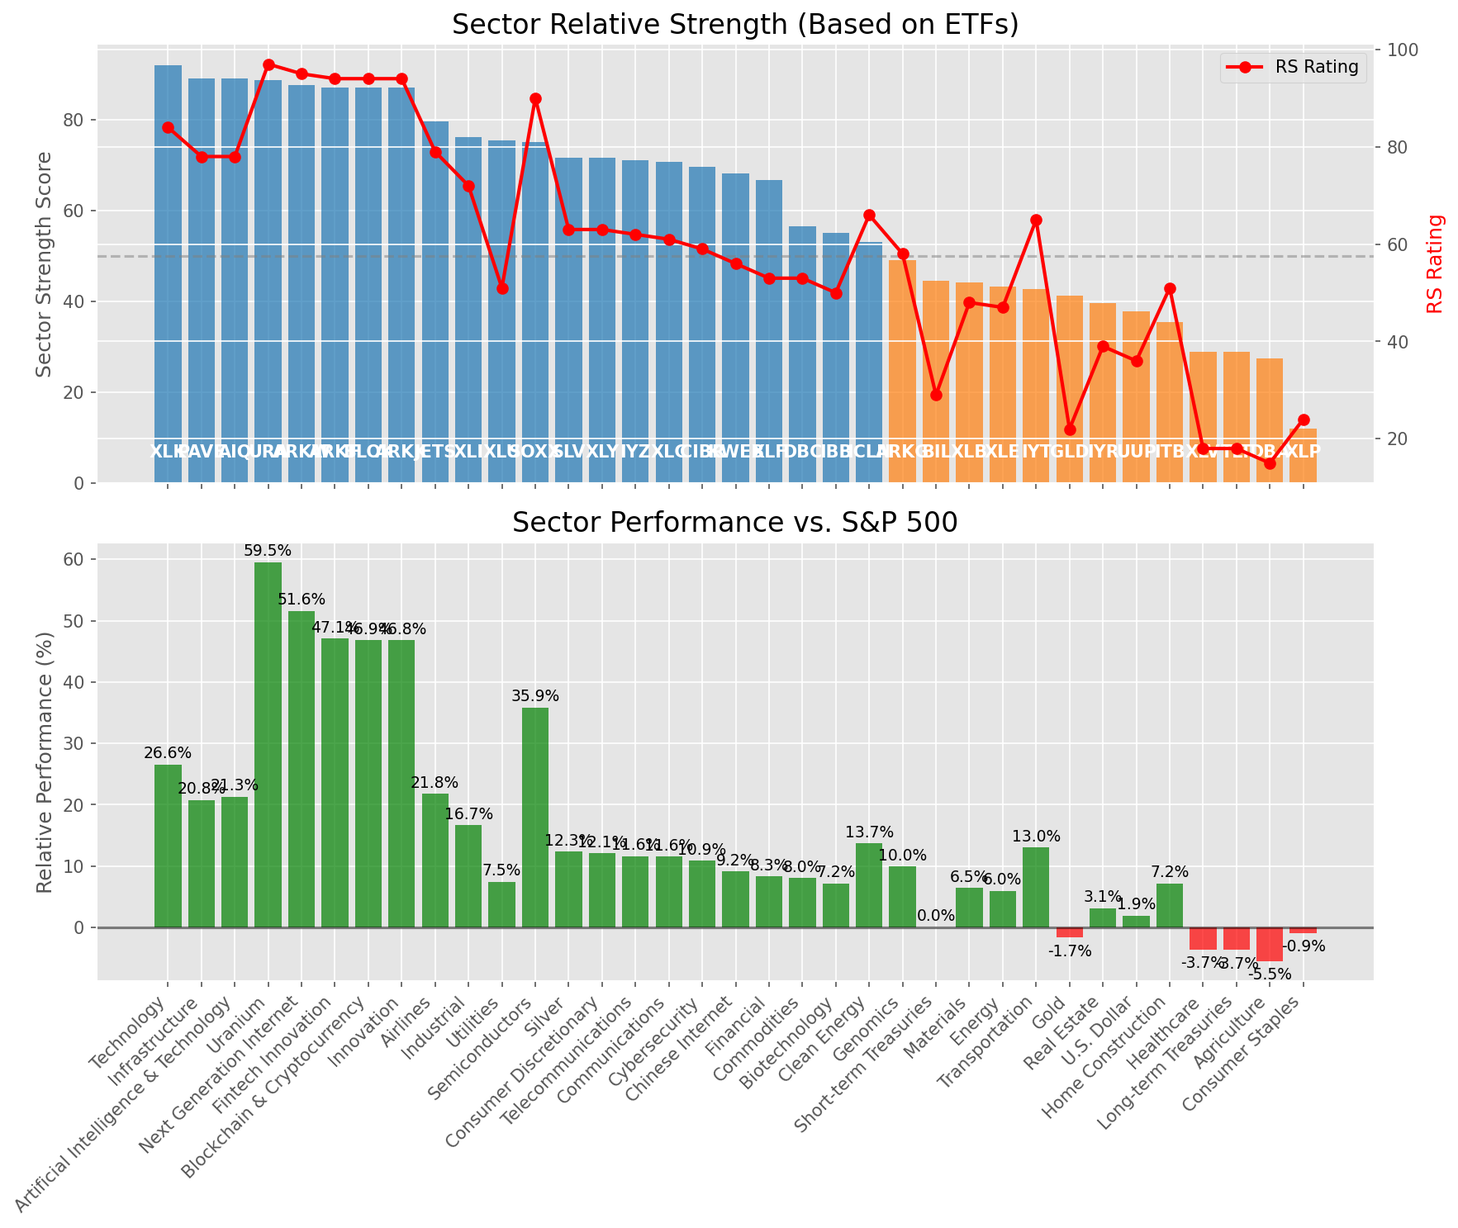
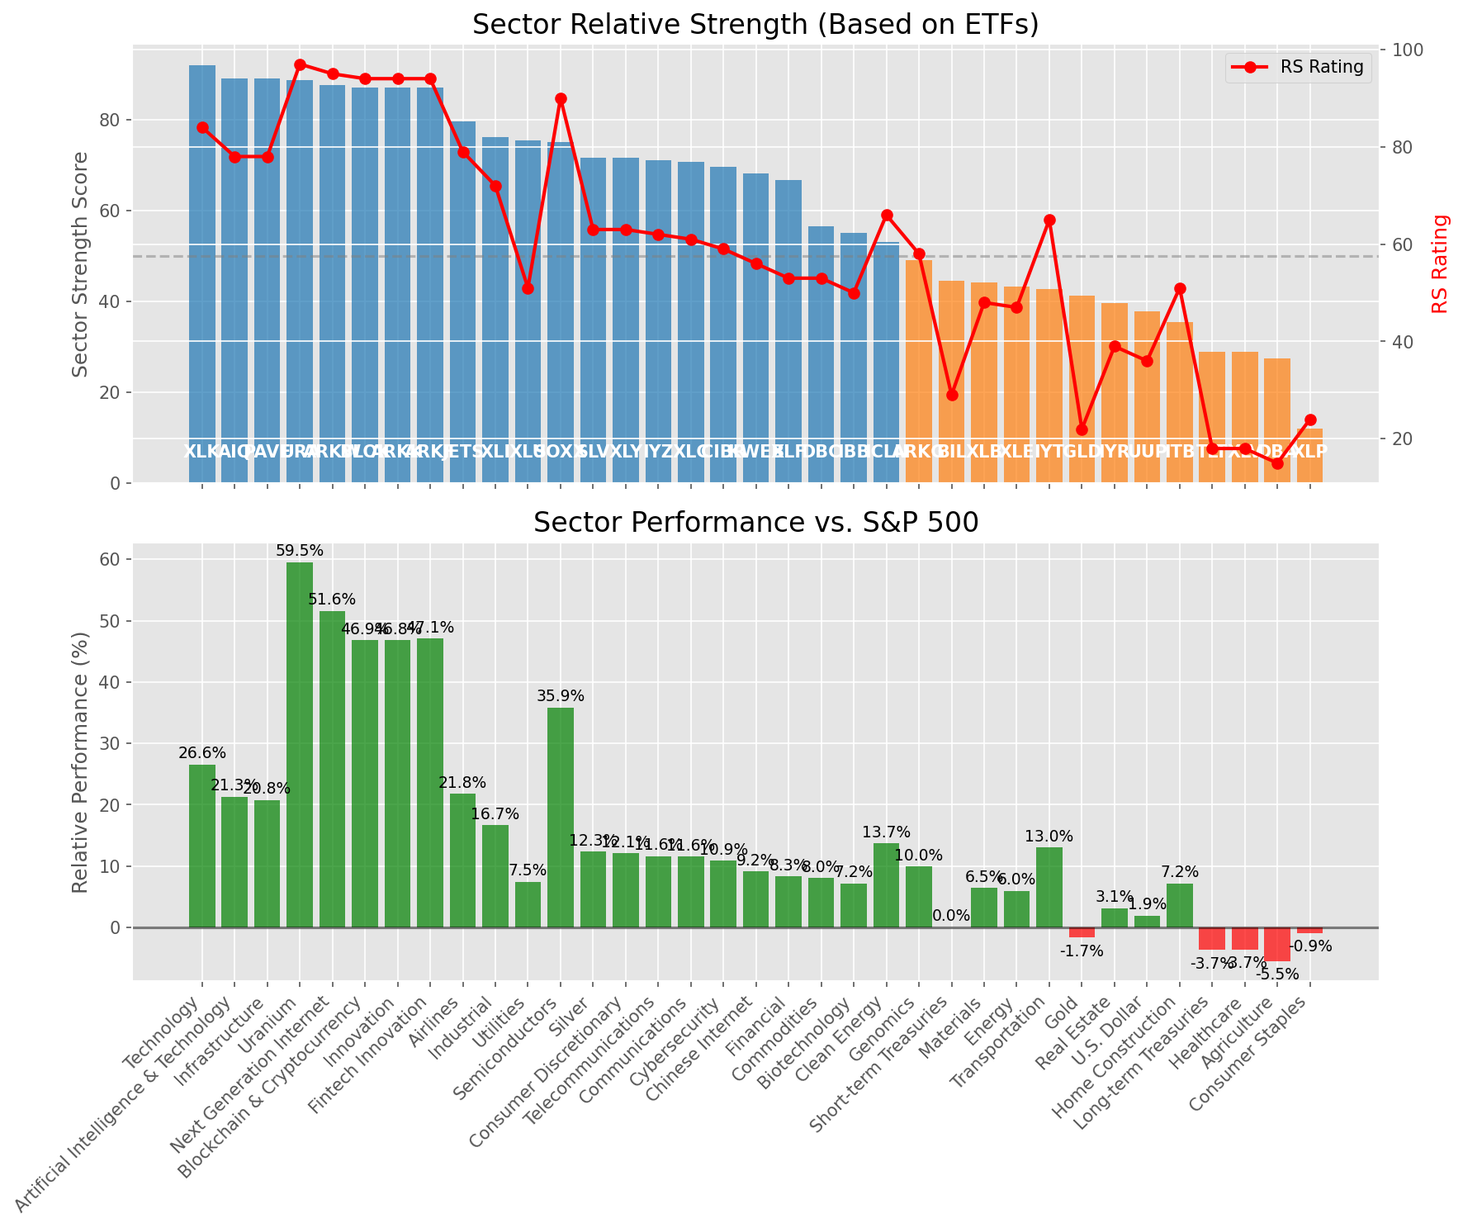
Add market report for 2025-07-30

diff --git a/oneil_relative_strength_report_2025-07-30.md b/oneil_relative_strength_report_2025-07-30.md
@@ -50,13 +50,13 @@ Based on William O'Neil's Relative Strength Methodology
 | ETF | Strength | RS Rating | Performance | Above Key MAs | Trend | Sector |
 |-----|----------|-----------|-------------|--------------|-------|--------|
 | [XLK](https://www.tradingview.com/chart/?symbol=XLK) | 92.0 | 84.0 | 26.58% | 10d ✓, 50d ✓, 200d ✓ | ↗ | Technology |
-| [PAVE](https://www.tradingview.com/chart/?symbol=PAVE) | 89.0 | 78.0 | 20.79% | 10d ✓, 50d ✓, 200d ✓ | ↗ | Infrastructure |
 | [AIQ](https://www.tradingview.com/chart/?symbol=AIQ) | 89.0 | 78.0 | 21.30% | 10d ✓, 50d ✓, 200d ✓ | ↗ | Artificial Intelligence & Technology |
+| [PAVE](https://www.tradingview.com/chart/?symbol=PAVE) | 89.0 | 78.0 | 20.79% | 10d ✓, 50d ✓, 200d ✓ | ↗ | Infrastructure |
 | [URA](https://www.tradingview.com/chart/?symbol=URA) | 88.6 | 97.0 | 59.53% | 10d ✗, 50d ✓, 200d ✓ | ↗ | Uranium |
 | [ARKW](https://www.tradingview.com/chart/?symbol=ARKW) | 87.6 | 95.0 | 51.59% | 10d ✗, 50d ✓, 200d ✓ | ↗ | Next Generation Internet |
-| [ARKF](https://www.tradingview.com/chart/?symbol=ARKF) | 87.1 | 94.0 | 47.09% | 10d ✗, 50d ✓, 200d ✓ | ↗ | Fintech Innovation |
 | [BLOK](https://www.tradingview.com/chart/?symbol=BLOK) | 87.1 | 94.0 | 46.86% | 10d ✗, 50d ✓, 200d ✓ | ↗ | Blockchain & Cryptocurrency |
 | [ARKK](https://www.tradingview.com/chart/?symbol=ARKK) | 87.1 | 94.0 | 46.81% | 10d ✗, 50d ✓, 200d ✓ | ↗ | Innovation |
+| [ARKF](https://www.tradingview.com/chart/?symbol=ARKF) | 87.1 | 94.0 | 47.09% | 10d ✗, 50d ✓, 200d ✓ | ↗ | Fintech Innovation |
 | [JETS](https://www.tradingview.com/chart/?symbol=JETS) | 79.6 | 79.0 | 21.77% | 10d ✗, 50d ✓, 200d ✓ | ↗ | Airlines |
 | [XLI](https://www.tradingview.com/chart/?symbol=XLI) | 76.1 | 72.0 | 16.67% | 10d ✗, 50d ✓, 200d ✓ | ↗ | Industrial |
 | [XLU](https://www.tradingview.com/chart/?symbol=XLU) | 75.5 | 51.0 | 7.45% | 10d ✓, 50d ✓, 200d ✓ | ↗ | Utilities |
@@ -80,8 +80,8 @@ Based on William O'Neil's Relative Strength Methodology
 | [IYR](https://www.tradingview.com/chart/?symbol=IYR) | 39.6 | 39.0 | 3.15% | 10d ✗, 50d ✓, 200d ✓ | ↘ | Real Estate |
 | [UUP](https://www.tradingview.com/chart/?symbol=UUP) | 37.8 | 36.0 | 1.94% | 10d ✓, 50d ✓, 200d ✗ | ↘ | U.S. Dollar |
 | [ITB](https://www.tradingview.com/chart/?symbol=ITB) | 35.4 | 51.0 | 7.18% | 10d ✗, 50d ✓, 200d ✗ | ↘ | Home Construction |
-| [XLV](https://www.tradingview.com/chart/?symbol=XLV) | 28.8 | 18.0 | -3.65% | 10d ✓, 50d ✓, 200d ✗ | ↘ | Healthcare |
 | [TLT](https://www.tradingview.com/chart/?symbol=TLT) | 28.8 | 18.0 | -3.69% | 10d ✓, 50d ✓, 200d ✗ | ↘ | Long-term Treasuries |
+| [XLV](https://www.tradingview.com/chart/?symbol=XLV) | 28.8 | 18.0 | -3.65% | 10d ✓, 50d ✓, 200d ✗ | ↘ | Healthcare |
 | [DBA](https://www.tradingview.com/chart/?symbol=DBA) | 27.5 | 15.0 | -5.53% | 10d ✗, 50d ✗, 200d ✗ | ↗ | Agriculture |
 | [XLP](https://www.tradingview.com/chart/?symbol=XLP) | 12.0 | 24.0 | -0.95% | 10d ✗, 50d ✗, 200d ✗ | ↘ | Consumer Staples |
 
@@ -98,7 +98,7 @@ This table shows the relative strength metrics for different market sectors base
 
 ### **Current Sector Leadership**
 
-The current market leadership is coming from the following sectors: **Technology, Infrastructure, Artificial Intelligence & Technology**.
+The current market leadership is coming from the following sectors: **Technology, Artificial Intelligence & Technology, Infrastructure**.
 
 The **Technology** sector (represented by **XLK**) is showing particularly strong relative strength with an RS rating of 84.0 and performance of 26.58% vs. the S&P 500. This sector is trading above its 10-day, 50-day, 200-day moving average(s). Investors should consider focusing on high RS stocks within these leading sectors for potential outperformance.
 
@@ -106,44 +106,44 @@ The **Technology** sector (represented by **XLK**) is showing particularly stron
 
 ## **Buy Recommendations**
 
-The following 56 stocks show exceptional relative strength:
+The following 57 stocks show exceptional relative strength:
 
 | RS Rating | Buy Score | Current Price | Chart | Name | Ticker |
 |-----------|-----------|---------------|-------|------|--------|
 | 100 | 100 | $202.41 | [Chart](https://www.tradingview.com/chart/?symbol=CLS) | Celestica, Inc. | CLS |
-| 100 | 100 | $150.93 | [Chart](https://www.tradingview.com/chart/?symbol=SEZL) | Sezzle Inc. Common Stock | SEZL |
 | 100 | 100 | $48.73 | [Chart](https://www.tradingview.com/chart/?symbol=TTMI) | TTM Technologies Inc | TTMI |
-| 100 | 100 | $106.10 | [Chart](https://www.tradingview.com/chart/?symbol=HOOD) | Robinhood Markets, Inc. Class A Common Stock | HOOD |
+| 100 | 100 | $150.93 | [Chart](https://www.tradingview.com/chart/?symbol=SEZL) | Sezzle Inc. Common Stock | SEZL |
 | 100 | 100 | $240.20 | [Chart](https://www.tradingview.com/chart/?symbol=DAVE) | Dave Inc. Class A Common Stock | DAVE |
+| 100 | 100 | $106.10 | [Chart](https://www.tradingview.com/chart/?symbol=HOOD) | Robinhood Markets, Inc. Class A Common Stock | HOOD |
 | 99 | 100 | $76.40 | [Chart](https://www.tradingview.com/chart/?symbol=LIF) | Life360, Inc. Common Stock | LIF |
-| 99 | 100 | $65.53 | [Chart](https://www.tradingview.com/chart/?symbol=HIMS) | Hims & Hers Health, Inc. | HIMS |
 | 99 | 100 | $124.94 | [Chart](https://www.tradingview.com/chart/?symbol=RBLX) | Roblox Corporation | RBLX |
+| 99 | 100 | $65.53 | [Chart](https://www.tradingview.com/chart/?symbol=HIMS) | Hims & Hers Health, Inc. | HIMS |
 | 98 | 100 | $24.36 | [Chart](https://www.tradingview.com/chart/?symbol=CPS) | Cooper-Standard Automotive Inc. | CPS |
 | 98 | 100 | $373.36 | [Chart](https://www.tradingview.com/chart/?symbol=TLN) | Talen Energy Corporation Common Stock | TLN |
 | 98 | 100 | $655.00 | [Chart](https://www.tradingview.com/chart/?symbol=GEV) | GE Vernova Inc. | GEV |
+| 97 | 100 | $240.50 | [Chart](https://www.tradingview.com/chart/?symbol=AGX) | Argan, Inc | AGX |
 | 97 | 100 | $200.85 | [Chart](https://www.tradingview.com/chart/?symbol=NET) | Cloudflare, Inc. Class A common stock, par value $0.001 per share | NET |
 | 97 | 100 | $36.18 | [Chart](https://www.tradingview.com/chart/?symbol=ATRO) | Astronics Corp | ATRO |
 | 97 | 100 | $38.85 | [Chart](https://www.tradingview.com/chart/?symbol=AS) | Amer Sports, Inc. | AS |
 | 96 | 100 | $49.18 | [Chart](https://www.tradingview.com/chart/?symbol=REVG) | REV Group, Inc. | REVG |
-| 96 | 100 | $240.50 | [Chart](https://www.tradingview.com/chart/?symbol=AGX) | Argan, Inc | AGX |
-| 96 | 100 | $226.42 | [Chart](https://www.tradingview.com/chart/?symbol=JBL) | Jabil Inc. | JBL |
 | 96 | 100 | $66.22 | [Chart](https://www.tradingview.com/chart/?symbol=IBKR) | Interactive Brokers Group, Inc. Class A Common Stock | IBKR |
-| 95 | 100 | $137.88 | [Chart](https://www.tradingview.com/chart/?symbol=LMB) | Limbach Holdings, Inc Common Stock | LMB |
+| 96 | 100 | $226.42 | [Chart](https://www.tradingview.com/chart/?symbol=JBL) | Jabil Inc. | JBL |
 | 95 | 100 | $166.59 | [Chart](https://www.tradingview.com/chart/?symbol=NRG) | NRG Energy, Inc. | NRG |
+| 95 | 100 | $137.88 | [Chart](https://www.tradingview.com/chart/?symbol=LMB) | Limbach Holdings, Inc Common Stock | LMB |
 | 94 | 100 | $266.10 | [Chart](https://www.tradingview.com/chart/?symbol=WWD) | Woodward, Inc. | WWD |
 | 94 | 100 | $115.90 | [Chart](https://www.tradingview.com/chart/?symbol=SANM) | Sanmina  Corp | SANM |
 | 93 | 100 | $283.63 | [Chart](https://www.tradingview.com/chart/?symbol=CRS) | Carpenter Technology Corp | CRS |
-| 93 | 100 | $105.14 | [Chart](https://www.tradingview.com/chart/?symbol=VRNA) | Verona Pharma plc | VRNA |
 | 93 | 100 | $22.42 | [Chart](https://www.tradingview.com/chart/?symbol=MIR) | Mirion Technologies, Inc. | MIR |
 | 93 | 100 | $59.03 | [Chart](https://www.tradingview.com/chart/?symbol=VIK) | Viking Holdings Ltd | VIK |
+| 93 | 100 | $105.14 | [Chart](https://www.tradingview.com/chart/?symbol=VRNA) | Verona Pharma plc | VRNA |
 | 93 | 100 | $19.11 | [Chart](https://www.tradingview.com/chart/?symbol=LQDA) | Liquidia Corporation Common Stock | LQDA |
-| 92 | 100 | $95.81 | [Chart](https://www.tradingview.com/chart/?symbol=C) | Citigroup Inc. | C |
 | 92 | 100 | $192.14 | [Chart](https://www.tradingview.com/chart/?symbol=HWM) | Howmet Aerospace Inc. | HWM |
-| 91 | 100 | $105.49 | [Chart](https://www.tradingview.com/chart/?symbol=APH) | Amphenol Corporation | APH |
+| 92 | 100 | $95.81 | [Chart](https://www.tradingview.com/chart/?symbol=C) | Citigroup Inc. | C |
 | 91 | 100 | $158.61 | [Chart](https://www.tradingview.com/chart/?symbol=PLTR) | Palantir Technologies Inc. Class A Common Stock | PLTR |
-| 90 | 100 | $273.55 | [Chart](https://www.tradingview.com/chart/?symbol=GE) | GE Aerospace | GE |
+| 91 | 100 | $105.49 | [Chart](https://www.tradingview.com/chart/?symbol=APH) | Amphenol Corporation | APH |
 | 90 | 100 | $95.42 | [Chart](https://www.tradingview.com/chart/?symbol=RBRK) | Rubrik, Inc. | RBRK |
 | 90 | 100 | $82.56 | [Chart](https://www.tradingview.com/chart/?symbol=TPB) | Turning Point Brands, Inc. | TPB |
+| 90 | 100 | $273.55 | [Chart](https://www.tradingview.com/chart/?symbol=GE) | GE Aerospace | GE |
 | 89 | 100 | $48.61 | [Chart](https://www.tradingview.com/chart/?symbol=TOST) | Toast, Inc. | TOST |
 | 89 | 100 | $66.47 | [Chart](https://www.tradingview.com/chart/?symbol=CAKE) | Cheesecake Factory (The) | CAKE |
 | 88 | 100 | $41.89 | [Chart](https://www.tradingview.com/chart/?symbol=LTM) | LATAM Airlines Group S.A. American Depositary Shares (each representing two thousand (2,000) shares of Common Stock) | LTM |
@@ -154,15 +154,16 @@ The following 56 stocks show exceptional relative strength:
 | 86 | 97 | $73.17 | [Chart](https://www.tradingview.com/chart/?symbol=ULS) | UL Solutions Inc. | ULS |
 | 85 | 97 | $102.30 | [Chart](https://www.tradingview.com/chart/?symbol=BK) | Bank of New York Mellon Corporation | BK |
 | 86 | 96 | $48.49 | [Chart](https://www.tradingview.com/chart/?symbol=INOD) | Innodata Inc. | INOD |
+| 85 | 96 | $198.64 | [Chart](https://www.tradingview.com/chart/?symbol=ITA) | iShares U.S. Aerospace & Defense ETF | ITA |
 | 83 | 96 | $66.92 | [Chart](https://www.tradingview.com/chart/?symbol=CHEF) | The Chef's Warehouse Inc | CHEF |
-| 84 | 95 | $198.64 | [Chart](https://www.tradingview.com/chart/?symbol=ITA) | iShares U.S. Aerospace & Defense ETF | ITA |
 | 81 | 95 | $19.86 | [Chart](https://www.tradingview.com/chart/?symbol=BCS) | Barclays PLC | BCS |
 | 84 | 94 | $260.91 | [Chart](https://www.tradingview.com/chart/?symbol=WTS) | Watts Water Technologies, Inc. Class A | WTS |
 | 84 | 94 | $95.99 | [Chart](https://www.tradingview.com/chart/?symbol=NDAQ) | Nasdaq, Inc. Common Stock | NDAQ |
 | 82 | 94 | $399.00 | [Chart](https://www.tradingview.com/chart/?symbol=LPLA) | LPL Financial Holdings Inc. | LPLA |
 | 81 | 94 | $33.26 | [Chart](https://www.tradingview.com/chart/?symbol=DB) | Deutsche Bank Aktiengesellschaft | DB |
-| 81 | 93 | $53.16 | [Chart](https://www.tradingview.com/chart/?symbol=BTI) | British American Tobacco p.l.c. American Depositary Shares, American Depositary Shares, each representing one Ordinary Share | BTI |
+| 83 | 93 | $86.73 | [Chart](https://www.tradingview.com/chart/?symbol=BYD) | Boyd Gaming Corporation | BYD |
 | 81 | 93 | $141.48 | [Chart](https://www.tradingview.com/chart/?symbol=VSEC) | VSE Corp | VSEC |
+| 81 | 93 | $53.16 | [Chart](https://www.tradingview.com/chart/?symbol=BTI) | British American Tobacco p.l.c. American Depositary Shares, American Depositary Shares, each representing one Ordinary Share | BTI |
 | 81 | 93 | $435.19 | [Chart](https://www.tradingview.com/chart/?symbol=CYBR) | CyberArk Software Ltd. | CYBR |
 | 81 | 92 | $286.90 | [Chart](https://www.tradingview.com/chart/?symbol=VEEV) | Veeva Systems Inc. | VEEV |
 | 80 | 90 | $49.70 | [Chart](https://www.tradingview.com/chart/?symbol=FHI) | Federated Hermes, Inc. | FHI |
@@ -172,31 +173,33 @@ The following 56 stocks show exceptional relative strength:
 
 ## **Sell Recommendations**
 
-The following 83 stocks show deteriorating relative strength:
+The following 89 stocks show deteriorating relative strength:
 
 | RS Rating | Sell Score | Current Price | Chart | Name | Ticker |
 |-----------|------------|---------------|-------|------|--------|
 | 1 | 100 | $23.62 | [Chart](https://www.tradingview.com/chart/?symbol=TECS) | Direxion Daily Technology Bear 3x Shares | TECS |
 | 1 | 100 | $11.90 | [Chart](https://www.tradingview.com/chart/?symbol=NVDS) | Investment Managers Series Trust II Tradr 1.5X Short NVDA Daily ETF | NVDS |
 | 1 | 100 | $17.83 | [Chart](https://www.tradingview.com/chart/?symbol=GPCR) | Structure Therapeutics Inc. American Depositary Shares | GPCR |
-| 2 | 100 | $12.86 | [Chart](https://www.tradingview.com/chart/?symbol=CDNA) | CareDx, Inc. | CDNA |
-| 2 | 100 | $14.25 | [Chart](https://www.tradingview.com/chart/?symbol=CLBT) | Cellebrite DI Ltd. Class A Ordinary Shares | CLBT |
 | 2 | 100 | $53.45 | [Chart](https://www.tradingview.com/chart/?symbol=GMED) | GLOBUS MEDICAL INC | GMED |
+| 2 | 100 | $14.25 | [Chart](https://www.tradingview.com/chart/?symbol=CLBT) | Cellebrite DI Ltd. Class A Ordinary Shares | CLBT |
 | 2 | 100 | $61.54 | [Chart](https://www.tradingview.com/chart/?symbol=SKY) | Champion Homes, Inc. | SKY |
-| 3 | 100 | $41.08 | [Chart](https://www.tradingview.com/chart/?symbol=TWM) | ProShares UltraShort Russell2000 | TWM |
-| 3 | 100 | $40.66 | [Chart](https://www.tradingview.com/chart/?symbol=SDOW) | ProShares UltraPro Short Dow 30 | SDOW |
+| 2 | 100 | $12.86 | [Chart](https://www.tradingview.com/chart/?symbol=CDNA) | CareDx, Inc. | CDNA |
 | 3 | 100 | $12.11 | [Chart](https://www.tradingview.com/chart/?symbol=PSFE) | Paysafe Limited | PSFE |
+| 3 | 100 | $40.66 | [Chart](https://www.tradingview.com/chart/?symbol=SDOW) | ProShares UltraPro Short Dow 30 | SDOW |
+| 3 | 100 | $41.08 | [Chart](https://www.tradingview.com/chart/?symbol=TWM) | ProShares UltraShort Russell2000 | TWM |
 | 3 | 100 | $46.73 | [Chart](https://www.tradingview.com/chart/?symbol=SLVM) | Sylvamo Corporation | SLVM |
-| 4 | 100 | $24.63 | [Chart](https://www.tradingview.com/chart/?symbol=ZSL) | ProShares UltraShort Silver | ZSL |
-| 4 | 100 | $24.58 | [Chart](https://www.tradingview.com/chart/?symbol=DUST) | Direxion Daily Gold Miners Index Bear 2X Shares | DUST |
+| 3 | 100 | $36.90 | [Chart](https://www.tradingview.com/chart/?symbol=IBTA) | Ibotta, Inc. | IBTA |
 | 4 | 100 | $16.44 | [Chart](https://www.tradingview.com/chart/?symbol=BTAL) | AGF U.S. Market Neutral Anti-Beta Fund | BTAL |
+| 4 | 100 | $24.58 | [Chart](https://www.tradingview.com/chart/?symbol=DUST) | Direxion Daily Gold Miners Index Bear 2X Shares | DUST |
+| 4 | 100 | $24.63 | [Chart](https://www.tradingview.com/chart/?symbol=ZSL) | ProShares UltraShort Silver | ZSL |
 | 4 | 100 | $22.40 | [Chart](https://www.tradingview.com/chart/?symbol=HELE) | Helen Of Troy Ltd | HELE |
-| 5 | 100 | $14.73 | [Chart](https://www.tradingview.com/chart/?symbol=PLSE) | Pulse Biosciences, Inc Common Stock (DE) | PLSE |
 | 5 | 100 | $10.37 | [Chart](https://www.tradingview.com/chart/?symbol=OEC) | Orion S.A. | OEC |
-| 7 | 100 | $13.73 | [Chart](https://www.tradingview.com/chart/?symbol=DXC) | DXC Technology Company | DXC |
+| 5 | 100 | $10.68 | [Chart](https://www.tradingview.com/chart/?symbol=ARDT) | Ardent Health, Inc. | ARDT |
+| 5 | 100 | $14.73 | [Chart](https://www.tradingview.com/chart/?symbol=PLSE) | Pulse Biosciences, Inc Common Stock (DE) | PLSE |
 | 7 | 100 | $38.87 | [Chart](https://www.tradingview.com/chart/?symbol=SH) | ProShares Short S&P500 | SH |
-| 7 | 100 | $10.18 | [Chart](https://www.tradingview.com/chart/?symbol=IMXI) | International Money Express, Inc. | IMXI |
 | 7 | 100 | $21.34 | [Chart](https://www.tradingview.com/chart/?symbol=AMPH) | Amphastar Pharmaceuticals, Inc. | AMPH |
+| 7 | 100 | $13.73 | [Chart](https://www.tradingview.com/chart/?symbol=DXC) | DXC Technology Company | DXC |
+| 7 | 100 | $10.18 | [Chart](https://www.tradingview.com/chart/?symbol=IMXI) | International Money Express, Inc. | IMXI |
 | 8 | 100 | $27.80 | [Chart](https://www.tradingview.com/chart/?symbol=DOCN) | DigitalOcean Holdings, Inc. | DOCN |
 | 9 | 100 | $21.41 | [Chart](https://www.tradingview.com/chart/?symbol=AMRK) | A-Mark Precious Metals, Inc. | AMRK |
 | 10 | 100 | $54.78 | [Chart](https://www.tradingview.com/chart/?symbol=HRB) | H&R Block, Inc. | HRB |
@@ -210,28 +213,29 @@ The following 83 stocks show deteriorating relative strength:
 | 8 | 96 | $21.32 | [Chart](https://www.tradingview.com/chart/?symbol=ERY) | Direxion Daily Energy Bear 2X Shares | ERY |
 | 8 | 95 | $21.82 | [Chart](https://www.tradingview.com/chart/?symbol=BLFS) | BioLife Solutions Inc. | BLFS |
 | 10 | 95 | $19.67 | [Chart](https://www.tradingview.com/chart/?symbol=GAP) | The Gap, Inc. | GAP |
+| 13 | 95 | $10.50 | [Chart](https://www.tradingview.com/chart/?symbol=SD) | SandRidge Energy, Inc. | SD |
+| 14 | 95 | $19.59 | [Chart](https://www.tradingview.com/chart/?symbol=AVBP) | ArriVent BioPharma, Inc. Common Stock | AVBP |
 | 15 | 95 | $196.31 | [Chart](https://www.tradingview.com/chart/?symbol=AVB) | AvalonBay Communities, Inc. | AVB |
 | 16 | 95 | $13.91 | [Chart](https://www.tradingview.com/chart/?symbol=OCSL) | Oaktree Specialty Lending Corporation | OCSL |
-| 14 | 94 | $10.50 | [Chart](https://www.tradingview.com/chart/?symbol=SD) | SandRidge Energy, Inc. | SD |
-| 17 | 94 | $21.47 | [Chart](https://www.tradingview.com/chart/?symbol=TUA) | Simplify Short Term Treasury Futures Strategy ETF | TUA |
+| 17 | 95 | $21.47 | [Chart](https://www.tradingview.com/chart/?symbol=TUA) | Simplify Short Term Treasury Futures Strategy ETF | TUA |
 | 20 | 94 | $16.45 | [Chart](https://www.tradingview.com/chart/?symbol=MLNK) | MeridianLink, Inc. | MLNK |
 | 11 | 92 | $73.51 | [Chart](https://www.tradingview.com/chart/?symbol=AWR) | American States Water Company | AWR |
 | 13 | 92 | $45.98 | [Chart](https://www.tradingview.com/chart/?symbol=BMY) | Bristol-Myers Squibb Co. | BMY |
 | 16 | 92 | $11.22 | [Chart](https://www.tradingview.com/chart/?symbol=PACS) | PACS Group, Inc. | PACS |
 | 18 | 92 | $10.49 | [Chart](https://www.tradingview.com/chart/?symbol=ACIC) | American Coastal Insurance Corporation Common Stock | ACIC |
 | 11 | 91 | $36.60 | [Chart](https://www.tradingview.com/chart/?symbol=LZB) | La-Z-Boy Incorporated | LZB |
-| 12 | 90 | $36.38 | [Chart](https://www.tradingview.com/chart/?symbol=MSTX) | Tidal Trust II Defiance Daily Target 2x Long MSTR ETF | MSTX |
 | 15 | 90 | $12.39 | [Chart](https://www.tradingview.com/chart/?symbol=WSR) | Whitestone REIT | WSR |
 | 15 | 90 | $210.09 | [Chart](https://www.tradingview.com/chart/?symbol=MKTX) | MarketAxess Holdings Inc. | MKTX |
 | 17 | 90 | $13.13 | [Chart](https://www.tradingview.com/chart/?symbol=CCRN) | Cross Country Healthcare Inc | CCRN |
 | 18 | 90 | $37.11 | [Chart](https://www.tradingview.com/chart/?symbol=PBA) | PEMBINA PIPELINE CORPORATION | PBA |
 | 18 | 90 | $78.06 | [Chart](https://www.tradingview.com/chart/?symbol=AKAM) | Akamai Technologies Inc | AKAM |
 | 20 | 90 | $11.51 | [Chart](https://www.tradingview.com/chart/?symbol=NVG) | Nuveen AMT-Free Municipal Credit Income Fund | NVG |
+| 12 | 89 | $36.38 | [Chart](https://www.tradingview.com/chart/?symbol=MSTX) | Tidal Trust II Defiance Daily Target 2x Long MSTR ETF | MSTX |
 | 13 | 89 | $59.01 | [Chart](https://www.tradingview.com/chart/?symbol=UL) | Unilever plc | UL |
 | 14 | 89 | $14.11 | [Chart](https://www.tradingview.com/chart/?symbol=ACVA) | ACV Auctions Inc. | ACVA |
 | 16 | 89 | $184.56 | [Chart](https://www.tradingview.com/chart/?symbol=AIZ) | Assurant, Inc. | AIZ |
-| 18 | 89 | $31.05 | [Chart](https://www.tradingview.com/chart/?symbol=MBIN) | Merchants Bancorp Common Stock | MBIN |
 | 21 | 89 | $87.61 | [Chart](https://www.tradingview.com/chart/?symbol=BCO) | The Brink's Company | BCO |
+| 18 | 88 | $31.05 | [Chart](https://www.tradingview.com/chart/?symbol=MBIN) | Merchants Bancorp Common Stock | MBIN |
 | 22 | 88 | $11.63 | [Chart](https://www.tradingview.com/chart/?symbol=NZF) | Nuveen Municipal Credit Income Fund | NZF |
 | 25 | 88 | $10.84 | [Chart](https://www.tradingview.com/chart/?symbol=MQY) | Blackrock Muni Yield Quality Fund, Inc | MQY |
 | 21 | 87 | $101.78 | [Chart](https://www.tradingview.com/chart/?symbol=PRU) | Prudential Financial, Inc. | PRU |
@@ -243,13 +247,16 @@ The following 83 stocks show deteriorating relative strength:
 | 21 | 85 | $22.43 | [Chart](https://www.tradingview.com/chart/?symbol=CURB) | Curbline Properties Corp. | CURB |
 | 24 | 84 | $10.07 | [Chart](https://www.tradingview.com/chart/?symbol=NMZ) | Nuveen Municipal High Income Opportunity Fund | NMZ |
 | 21 | 83 | $74.79 | [Chart](https://www.tradingview.com/chart/?symbol=MET) | MetLife, Inc. | MET |
-| 21 | 82 | $237.68 | [Chart](https://www.tradingview.com/chart/?symbol=WDAY) | Workday, Inc. Class A Common Stock | WDAY |
 | 21 | 82 | $45.28 | [Chart](https://www.tradingview.com/chart/?symbol=BILL) | BILL Holdings, Inc. | BILL |
+| 21 | 82 | $237.68 | [Chart](https://www.tradingview.com/chart/?symbol=WDAY) | Workday, Inc. Class A Common Stock | WDAY |
+| 23 | 81 | $24.05 | [Chart](https://www.tradingview.com/chart/?symbol=CLW) | Clearwater Paper Corporation | CLW |
 | 24 | 81 | $56.79 | [Chart](https://www.tradingview.com/chart/?symbol=O) | Realty Income Corporation | O |
 | 25 | 81 | $12.61 | [Chart](https://www.tradingview.com/chart/?symbol=PCN) | PIMCO Corporate & Income Strategy Fund | PCN |
-| 23 | 80 | $24.05 | [Chart](https://www.tradingview.com/chart/?symbol=CLW) | Clearwater Paper Corporation | CLW |
+| 28 | 80 | $14.87 | [Chart](https://www.tradingview.com/chart/?symbol=PLYM) | Plymouth Industrial REIT, Inc. | PLYM |
+| 30 | 78 | $10.27 | [Chart](https://www.tradingview.com/chart/?symbol=MYI) | BLACKROCK MUNIYIELD QUALITY FUND III, INC. | MYI |
 | 38 | 78 | $17.01 | [Chart](https://www.tradingview.com/chart/?symbol=SVOL) | Simplify Volatility Premium ETF | SVOL |
 | 32 | 76 | $54.04 | [Chart](https://www.tradingview.com/chart/?symbol=AMWD) | American Woodmark Corp | AMWD |
+| 33 | 75 | $10.63 | [Chart](https://www.tradingview.com/chart/?symbol=LOCO) | El Pollo Loco Holdings, Inc. | LOCO |
 | 33 | 74 | $10.96 | [Chart](https://www.tradingview.com/chart/?symbol=NAC) | Nuveen California Quality Municipal Income Fund | NAC |
 | 33 | 73 | $49.66 | [Chart](https://www.tradingview.com/chart/?symbol=POWI) | Power Integrations Inc | POWI |
 | 32 | 71 | $45.92 | [Chart](https://www.tradingview.com/chart/?symbol=FTSL) | First Trust Senior Loan Fund ETF | FTSL |
@@ -258,7 +265,7 @@ The following 83 stocks show deteriorating relative strength:
 | 38 | 69 | $19.01 | [Chart](https://www.tradingview.com/chart/?symbol=AAT) | AMERICAN ASSETS TRUST, INC. | AAT |
 | 38 | 69 | $161.10 | [Chart](https://www.tradingview.com/chart/?symbol=NICE) | NICE Ltd | NICE |
 | 37 | 67 | $32.97 | [Chart](https://www.tradingview.com/chart/?symbol=DAR) | DARLING INGREDIENTS INC. | DAR |
-| 38 | 67 | $163.97 | [Chart](https://www.tradingview.com/chart/?symbol=EPAM) | EPAM SYSTEMS, INC. | EPAM |
+| 38 | 66 | $163.97 | [Chart](https://www.tradingview.com/chart/?symbol=EPAM) | EPAM SYSTEMS, INC. | EPAM |
 
 ## **Methodology**
 
